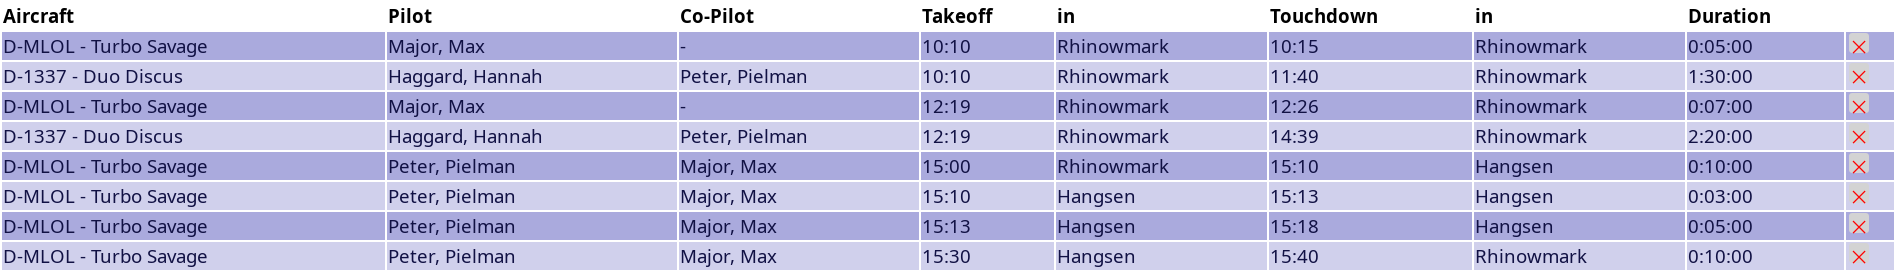
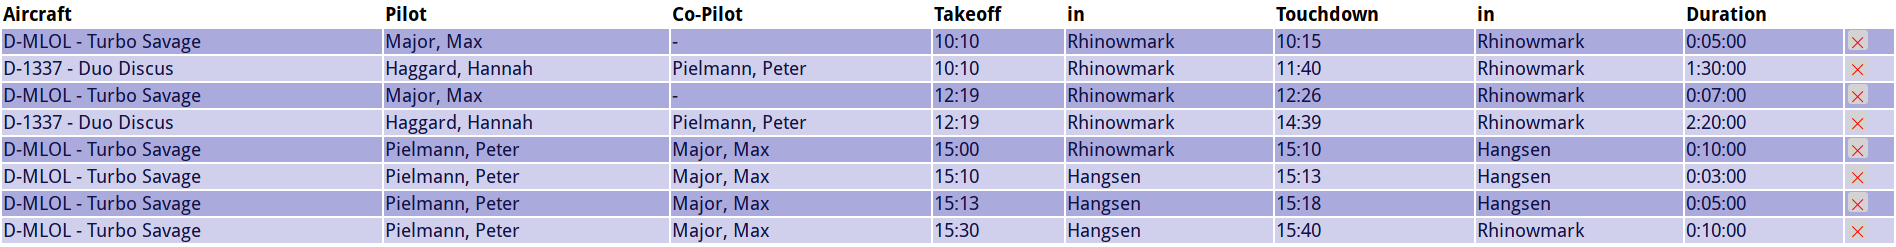
Updating DEMO output

diff --git a/README.md b/README.md
@@ -30,13 +30,13 @@ This list can be generated by this very straightforward text input form:
 
 ```
 D-MLOL Major, Max  1010 Rhinowmark 1015 Rhinowmark
-D-5012 Haggard, Hannah   Peter, Pielman 1010 Rhinowmark 1140 Rhinowmark
+D-1337 Haggard, Hannah   Pielmann, Peter 1010 Rhinowmark 1140 Rhinowmark
 D-MLOL Major, Max  1219 Rhinowmark 1226 Rhinowmark
-D-5012 Haggard, Hannah   Peter, Pielman 1219 Rhinowmark 1439 Rhinowmark
-D-MLOL Peter, Pielman   Major, Max 1500 Rhinowmark 1510 Hangsen
-D-MLOL Peter, Pielman   Major, Max 1510 Hangsen 1513 Hangsen
-D-MLOL Peter, Pielman   Major, Max 1513 Hangsen 1518 Hangsen
-D-MLOL Peter, Pielman   Major, Max 1530 Hangsen 1540 Hangsen
+D-1337 Haggard, Hannah   Pielmann, Peter 1219 Rhinowmark 1439 Rhinowmark
+D-MLOL Pielmann, Peter   Major, Max 1500 Rhinowmark 1510 Hangsen
+D-MLOL Pielmann, Peter   Major, Max 1510 Hangsen 1513 Hangsen
+D-MLOL Pielmann, Peter   Major, Max 1513 Hangsen 1518 Hangsen
+D-MLOL Pielmann, Peter   Major, Max 1530 Hangsen 1540 Rhinowmark
 ```
 
 But also using this extremely short input form, where only durations are added.
